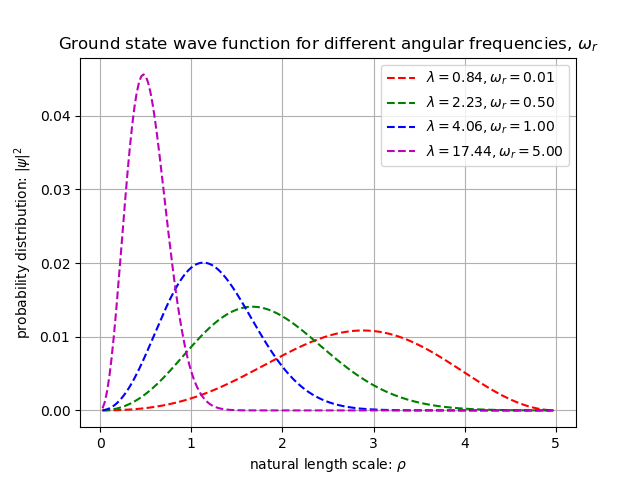
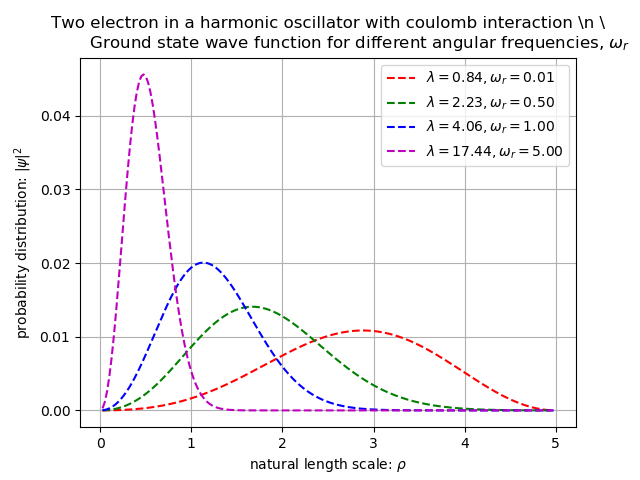
edit plot title

Changed region(s): [[0.0625, 0.0312, 0.9688, 0.125]]

diff --git a/Project2/plot.py b/Project2/plot.py
@@ -31,7 +31,8 @@ for i in range(4):
     lab = r"$\lambda = %5.2f, \omega_r = %4.2f$" % (eigval, wr)
     plt.plot(rho,psi,color[i],label=lab)
 
-plt.title(r"Ground state wave function for different angular frequencies, $\omega_r$")
+plt.title(r"Two electron in a harmonic oscillator with coulomb interaction \n \
+            Ground state wave function for different angular frequencies, $\omega_r$")
 plt.xlabel(r"natural length scale: $\rho$")
 plt.ylabel(r"probability distribution: $|\psi|^2$")
 plt.grid()
